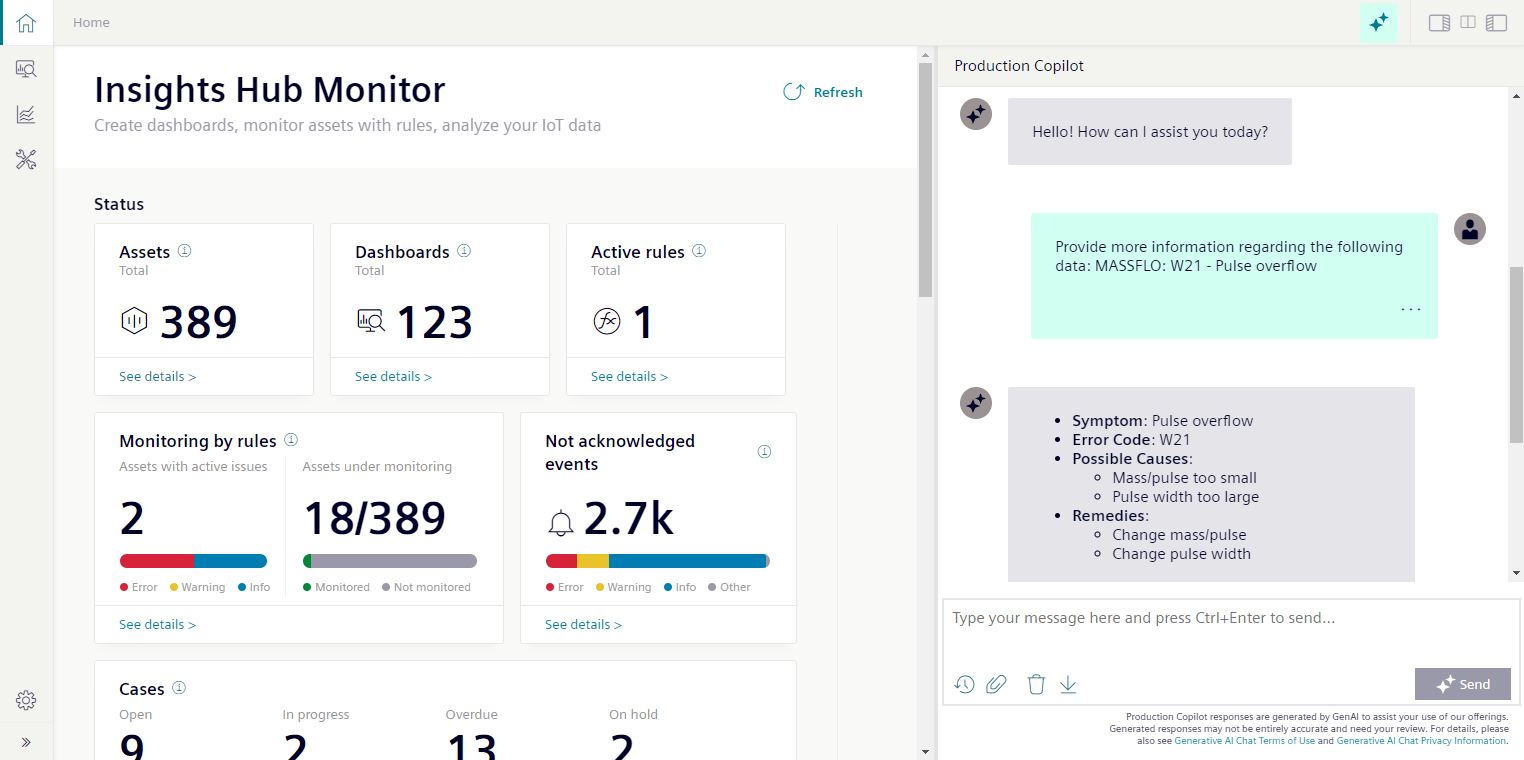
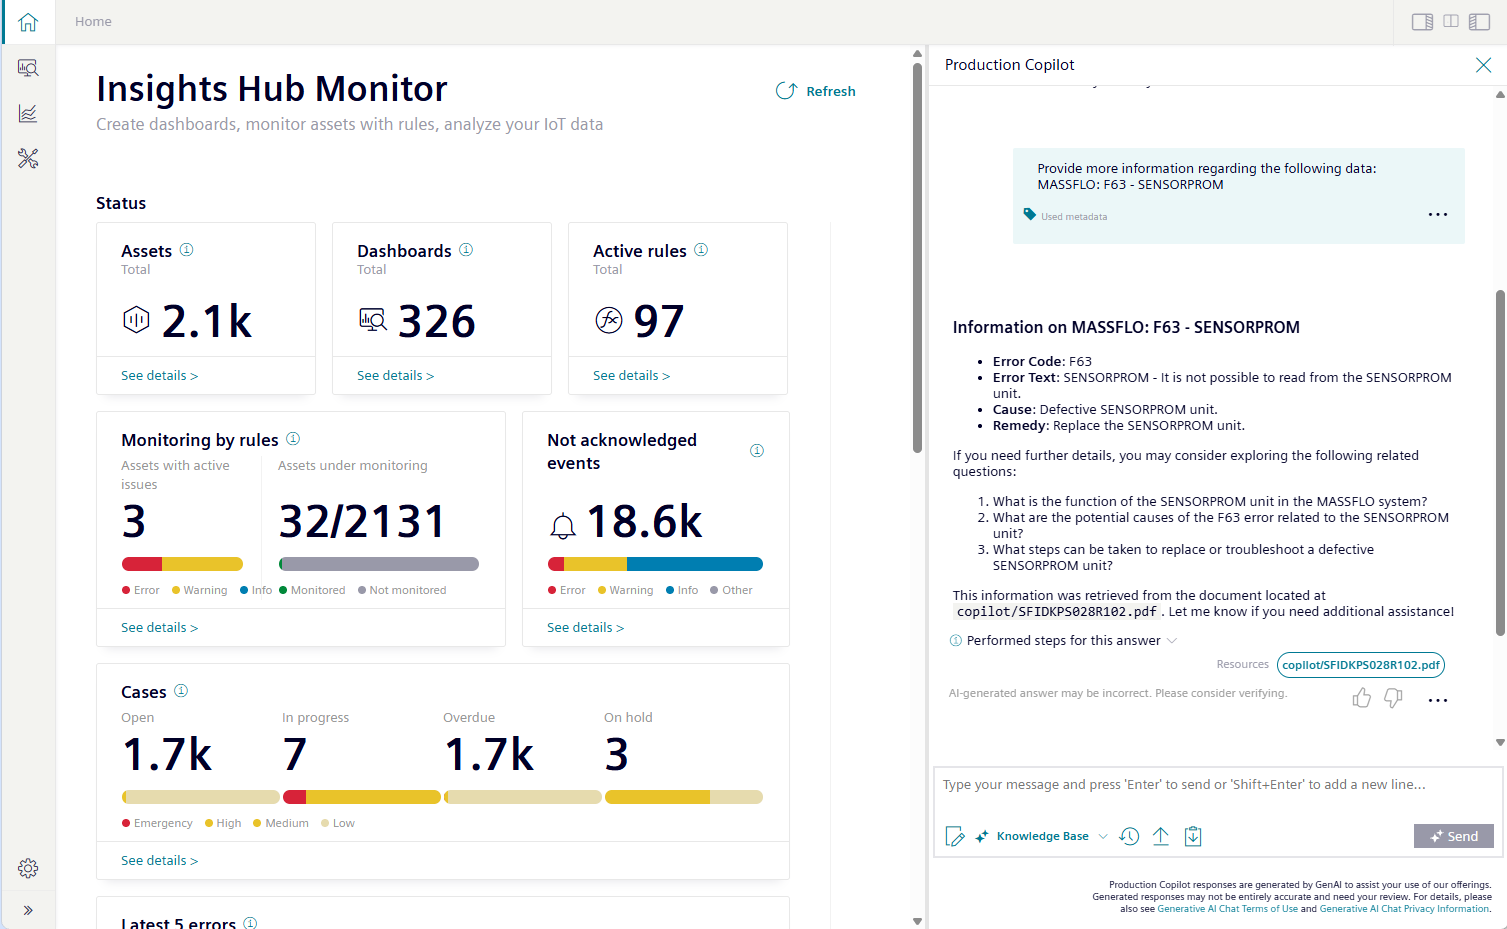
feat: add application example for MS Teams

diff --git a/teams-example/README.md b/teams-example/README.md
@@ -1,0 +1,348 @@
+# Using Insights Hub Production Copilot in Microsoft Teams
+
+This guide explains how to connect **Insights Hub Production Copilot** to **Microsoft Teams**, so people can chat with it directly inside Teams - the app they already use every day.
+
+> NOTE:
+> This guide assumes that you are using the **Microsoft Copilot "Classic Experience"**, not the "New Experience" being rolled out from mid-2026. You can also use the new experience in Microsoft Copilot, but in this case these instructions may be less helpful.
+
+## What happens behind the scenes
+
+Setting this up means creating a small "go-between" agent in **Microsoft Copilot Studio**. 
+Think of it as a receptionist: it greets people, passes their question along to Production Copilot, and brings the answer straight back - without changing a word of it.
+
+```mermaid
+flowchart LR
+  subgraph MS[Microsoft]
+    direction LR
+    A[User types<br>a question in <br> Microsoft Teams] --> B[Routing agent<br>in Microsoft <br>Copilot Studio]
+  end
+  subgraph IH[Insights Hub]
+    C[Insights Hub <br>Production Copilot]
+  end
+  B -->|uses technical account<br>to pass the request| C
+    C -->|sends back the response| B
+    B -->|shows the exact response| A
+```
+
+1. It greets the user when a conversation starts.
+2. It passes every message the user types along to Production Copilot, logging in with the technical service account behind the scenes.
+3. It shows the answer from Production Copilot back to the user, unchanged.
+4. It stores the conversation thread ID so it can reuse it for later messages in the same conversation.
+
+> This document only covers the general, non-confidential steps. You need to have your Siemens-specific details (agent ID, service address, login address, and technical account credentials) and enter them in the appropriate places during setup. Do not type them into any public repository, screenshot, or shared document.
+
+---
+
+## Prerequisites - what you need before you start
+
+- Access to [Microsoft Copilot Studio](https://copilotstudio.microsoft.com/) with permission to create and publish an agent. (Ask your IT/admin team if you're unsure whether you have this.)
+- Access to Microsoft Teams, with permission to add a custom app for yourself.
+- Access to the **Insights Hub Copilot Studio** admin area (the "Manage agents" page), where you can look up the two pieces of information described below.
+- A **technical user**: a username and password used by the routing agent. This should *not* be your personal login - it is a shared service account used only for this integration. You can use the **Insights Hub Settings** application to create such a technical user. Admin rights are required to do that. The technical user needs to have at least the role `mdsp:core:pcass.r`. Furthermore, the technical user might need additional roles, depending on the skills used by the agent you want to connect.
+
+## Step 1: Determine the Agent ID (also called `configId`)
+
+The Production Copilot agent you want to connect to has a unique ID - this is the exact same thing as the `configId` you'll use later. To find it:
+
+1. Open the **Insights Hub Copilot Studio** "Manage agents" page.
+2. Find your agent in the list (search by name if there are many) and open its **Agent details** panel.
+3. Scroll down to the **ID** field. That long code (looks like `xxxxxxxx-xxxx-xxxx-xxxx-xxxxxxxxxxxx`) is your Agent ID / `configId`.
+4. Click the small copy icon next to it to copy it to your clipboard.
+
+![Find the agent ID in Insights Hub Copilot Studio](images/08-find-agent-id.png)
+
+> 💡 Whenever you see the word `configId` later in this guide, it simply means **"the ID of your agent"** - the same value you just copied.
+
+## Step 2: Determine the <COMPLETION_ENDPOINT>
+
+The **service address** ("completion endpoint") is the web address that receives the user's question and forwards it to your Production Copilot agent.
+
+Use the Insights Hub gateway URL for your environment and append the agent's `configId` as the query parameter. For the standard Insights Hub setup hosted on public AWS, the environment identifier is typically `eu1`. Private cloud environments may use a different environment identifier and host.
+
+For example:
+
+`https://gateway.eu1.mindsphere.io/api/assistant/v3/openai/assistant/completion?configId=7deff096-3d3a-4e24-ac76-384b396bbf40`
+
+Use the complete URL above as **<COMPLETION_ENDPOINT>**. The `configId` needs to be part of this URL.
+Note: the tenant is resolved from the technical user's access token; the token must therefore be issued for the intended tenant - see below.
+
+## Step 3: Determine the <TOKEN_ENDPOINT>
+
+The **login address** ("token endpoint") is used to request an access token before calling the completion endpoint.
+
+Use the tenant's PIAM host for the **<TOKEN_ENDPOINT>**. For example, for the `demo` tenant in the standard public AWS `eu1` environment:
+
+`https://demo.piam.eu1.mindsphere.io/oauth/token?grant_type=client_credentials`
+
+Note: the completion endpoint uses the environment-specific gateway, while the token endpoint uses the tenant's PIAM host. The tenant context is carried by the technical user's access token. Private cloud environments may use different hosts.
+
+## Step 4: Create a technical user and get credentials
+
+The routing agent uses encoded credentials to authenticate with Insights Hub. To obtain them:
+
+1. Go to the Insights Hub "Settings" application
+2. Create a technical user and note down the credentials
+3. Make sure the technical user has at least the role `mdsp:core:pcass.r`
+
+You need tenant admin rights to do this.
+
+## Step 5: Determine the <LOGIN_CODE>
+
+To use these credentials (see below) the username and password first need to get combined and Base64-encoded. 
+Here's how to do this, using only what's already on your computer:
+
+**On Windows:**
+
+1. Open **PowerShell** (search for it in the Start menu).
+2. Type the following, replacing `username` and `password` with the technical account's real username and password, then press Enter:
+
+   ```powershell
+   [Convert]::ToBase64String([Text.Encoding]::UTF8.GetBytes("username:password"))
+   ```
+
+3. Copy the text that gets printed out - that's your login code.
+
+**On macOS or Linux:**
+
+1. Open the **Terminal** app.
+2. Type the following, replacing `username` and `password` with the real values, then press Enter:
+
+   ```bash
+   echo -n "username:password" | base64
+   ```
+  
+3. Copy the text that gets printed out - that's your encoded login code, referred as **<LOGIN_CODE>** in below scripts.
+
+> ⚠ Keep the colon (`:`) between the username and password, don't add spaces, and never share the resulting code publicly - it can be reversed back into the original username and password by anyone who has it.
+
+---
+
+## Step 6 - Create a new agent in Copilot Studio
+
+1. Open [Microsoft Copilot Studio](https://copilotstudio.microsoft.com/).
+2. Go to **Agents** and select **Create empty agent** (or the equivalent option in your language/UI).
+
+![Create a new agent in Copilot Studio](images/01-agents-overview-create-agent.png)
+
+This agent will act as the routing layer between your Teams users and the Production Copilot backend.
+
+---
+
+## Step 7 - Create the "Interaction" topic
+
+Open your new agent and go to the **Topics** tab.
+
+![Open the Topics tab](images/02-open-topics-tab.png)
+
+1. Turn off the default topics you don't need (Copilot Studio comes with a few pre-built ones - leaving them off is fine for this setup).
+2. Create a new topic and name it `interaction`.
+3. Open the **Code editor** for that topic.
+
+![Open the code editor for a topic](images/03-open-code-editor.png)
+
+What you see below is a configuration script. Copy it, paste it into the code editor, and then replace the placeholder values (the parts written in `<ANGLE_BRACKETS>`) with the details from the previous steps: login address, service address, agent ID, and technical user credentials (combined into a Base64 value).
+
+```yaml
+kind: AdaptiveDialog
+beginDialog:
+  kind: OnRecognizedIntent
+  id: main
+  intent: {}
+  actions:
+    # 1. Capture the user's message
+    - kind: SetVariable
+      id: setUserMessage
+      variable: Topic.UserMessage
+      value: =System.Activity.Text
+
+    # 2. Request a bearer token from the token endpoint
+    - kind: HttpRequestAction
+      id: getToken
+      method: Post
+      url: <TOKEN_ENDPOINT>
+      headers:
+        authorization: Basic <BASE64_ENCODED_CREDENTIALS>
+      body: {}
+      response: Topic.TokenResponse
+      responseSchema:
+        kind: Record
+        properties:
+          access_token: String
+          expires_in: Number
+          token_type: String
+
+    # 3. Reuse an existing conversation thread if one exists, otherwise start a new one
+    - kind: ConditionGroup
+      id: threadCheck
+      conditions:
+        - id: hasThread
+          condition: =!IsBlank(Global.threadID)
+          actions:
+            - kind: HttpRequestAction
+              id: continueThread
+              method: Post
+              url: ="<COMPLETION_ENDPOINT>&threadId=" & Global.threadID
+              headers:
+                Authorization: ="Bearer " & Topic.TokenResponse.access_token
+              body:
+                kind: JsonRequestContent
+                content: |-
+                  ={ messages: Table({ role: "user", content: Topic.UserMessage }) }
+              response: Topic.Response
+      elseActions:
+        - kind: HttpRequestAction
+          id: startThread
+          method: Post
+          url: <COMPLETION_ENDPOINT>
+          headers:
+            Authorization: ="Bearer " & Topic.TokenResponse.access_token
+          body:
+            kind: JsonRequestContent
+            content: |-
+              ={ messages: Table({ role: "user", content: Topic.UserMessage }) }
+          response: Topic.Response
+        - kind: SetVariable
+          id: storeThreadId
+          variable: Global.threadID
+          value: =Topic.Response.threadId
+
+    # 4. Return the exact response to the user
+    - kind: SendActivity
+      id: sendReply
+      activity: "{First(Topic.Response.choices).message.content}"
+
+    - kind: EndConversation
+      id: endConv
+```
+
+**What this configuration does, in plain terms:**
+
+- ✅ Remembers what the user just typed
+- ✅ Logs in using the technical user (not your personal login)
+- ✅ Sends the question to Production Copilot
+- ✅ Stores the conversation thread ID so it can reuse it for later messages
+- ✅ Shows the answer from Production Copilot to the user, exactly as received
+
+> ⚠ Make sure you replace `<TOKEN_ENDPOINT>`, `<COMPLETION_ENDPOINT>`, and `<BASE64_ENCODED_CREDENTIALS>` with the real values. Treat the Base64-encoded credentials as a password: never write or share them in a public repository, README, screenshot, or chat message. Handle endpoint URLs and agent IDs according to your organization's security policy.
+
+---
+
+## Step 8 - Create a "Greeting" Topic
+
+Create a second topic that fires when a conversation starts, and greets the user:
+
+```yaml
+kind: AdaptiveDialog
+beginDialog:
+  kind: OnConversationStart
+  id: main
+  actions:
+    - kind: SendActivity
+      id: greetUser
+      activity:
+        text:
+          - "Hello, I am {System.Bot.Name}. You are now connected to Production Copilot. What would you like to ask?"
+```
+
+Adjust the greeting text to match your organization's tone.
+
+> Avoid duplicate greetings:
+> Go to **Topics** > **System** and deactivate the standard **Conversation Start** topic. Otherwise, you will get two greeting messages at the start of each conversation.
+
+---
+
+## Step 9 - Configure Agent Instructions
+
+Go to the agent's **Overview** tab and add instructions similar to the following, so the agent behaves as a pure router and doesn't generate its own answers:
+
+![Configure agent instructions](images/04-agent-instructions.png)
+
+```text
+You are a routing agent for the Production Copilot system.
+
+When a user starts a new conversation, greet them and clearly state that
+they are now connected to the Production Copilot agent.
+
+After the greeting, for every subsequent user message, immediately execute
+the interaction topic.
+
+Your only purpose is to connect the user to the Production Copilot bot
+through the interaction topic.
+
+Do not answer the user yourself.
+Do not generate, paraphrase, explain, summarize, or modify any response.
+Do not invent replies under any circumstances.
+
+Only return the exact output produced by the interaction topic.
+```
+
+---
+
+## Step 10 - Test that everything works
+
+Use the test chat window inside Copilot Studio (usually on the right-hand side of the screen) to have a quick conversation with your new agent, and check off each of these:
+
+- [ ] A greeting message appears as soon as the conversation starts.
+- [ ] Every message you type gets a reply back (not silence or an error).
+- [ ] You don't see a `401 Unauthorized` message - that would mean the login details are wrong.
+- [ ] The replies genuinely look like Production Copilot answers, not generic/empty text.
+- [ ] If you ask a follow-up question, the agent retains the context from the earlier message. If it does not, check whether the conversation state and `Global.threadID` persist after the topic ends.
+
+### Common Errors
+
+| What you see | What it usually means | What to do |
+|---|---|---|
+| `401 Unauthorized` | The account's username or password is wrong, or was typed/copied incorrectly | Re-check the login details; make sure there are no extra spaces |
+| `Bad Credentials` | Same as above - username and password don't match | Confirm the account is still active |
+| `SystemError` or a generic failure message | The address (link) used is wrong or unreachable, or something in the setup is incomplete | Double-check the addresses were copied exactly as given, with no typos |
+| Empty or blank reply | The setup expects the reply in one shape, but got something slightly different back | Contact your Siemens support contact - this usually needs a small adjustment on their side |
+
+---
+
+## Step 11 - Publish the Agent
+
+Once your test conversation looks good, click the **Publish** button in the top-right corner of Copilot Studio. This makes your agent "live" so it can be added to Teams. Publishing usually takes a few minutes - grab a coffee.
+
+---
+
+## Step 12 - Add the Agent to Microsoft Teams
+
+1. After publishing, go to the **Channels** tab.
+
+![Open the Channels tab](images/05-open-channels-menu.png)
+
+2. Select **Microsoft 365 and Microsoft Teams** as the channel.
+
+![Select the Microsoft Teams channel](images/06-select-teams-channel.png)
+
+3. In the side panel, choose **Show in Microsoft Teams**. This opens Microsoft Teams and lets you add the agent, just like adding any other Teams app.
+
+![Show the agent in Microsoft Teams](images/07-show-agent-in-teams.png)
+
+🎉 That's it - your agent is now live in Microsoft Teams, connected to Production Copilot, and ready for conversations.
+
+## What your colleagues need to do
+
+Nothing special! Once the agent has been added to your organization's Teams (or shared with them individually), your colleagues just:
+
+1. Open Microsoft Teams as usual.
+2. Log in with their own normal email and password, the same way they always do.
+3. Find the agent in their Teams apps (or via the link/channel you share with them) and start typing questions.
+
+They never see or need the technical service account - that login only exists inside the one-time setup you just did.
+
+---
+
+## Further Reading
+
+- [Microsoft Copilot Studio documentation](https://learn.microsoft.com/en-us/microsoft-copilot-studio/)
+- [Publish an agent and add it to Microsoft Teams](https://learn.microsoft.com/en-us/microsoft-copilot-studio/publication-add-bot-to-microsoft-teams)
+- [Call an action with an HTTP request in Copilot Studio](https://learn.microsoft.com/en-us/microsoft-copilot-studio/authoring-http-node)
+
+---
+
+## Security Notes
+
+- Never write or share the technical user's username, password, or Base64-encoded credentials in a public repository, README, screenshot, or chat message. Handle endpoint URLs and agent IDs according to your organization's security policy.
+- The Base64-encoded value from Step 5 is **not** encryption - it is just a text format. Treat it exactly like a plain-text password: do not share it or paste it anywhere public.
+- All users can see the data that the technical user can access and effectively operate with its privileges - consider this when configuring access rights and agent instructions.

diff --git a/README.md b/README.md
@@ -1,20 +1,23 @@
 # Insights Hub Production Copilot
 
-Insights Hub Production Copilot is an AI-powered assistant seamlessly integrated into Insights Hub Monitor.
+Insights Hub Production Copilot is an AI-powered assistant seamlessly integrated into Insights Hub Monitor and other applications.
 
 ![Production Copilot](./img/production-copilot.png)
 
-You can find more about this in the [product documentation](https://documentation.mindsphere.io/MindSphere/apps/insights-hub-monitor/production-copilot.html).
+You can find more about this in the [product documentation](https://documentation.mindsphere.io/MindSphere/apps/production-copilot/production-copilot.html).
 
 ## About
 
-This repository provides some information / examples for an `early access` tutorial.
+This repository provides some information / product examples or an `early access` tutorial.
 
-- [Tutorial](./tutorial/)
+- [Application Example: "MS Teams"](./teams-example/README.md)<br>
+Using Insights Hub Production Copilot in Microsoft Teams.
+- [Tutorial for Early Access Phase)](./tutorial/)<br>
+This was required for an early access phase - in the meantime you can handle everything in `Insights Hub Copilot Studio`.
 
 ## Prerequisites
 
-These examples are only available and working for customers with an Early Access subscription in Insights Hub. These features may be modified or updated in the future.
+These examples are only available and working for customers with an Insights Hub subscription including the Insights Hub Production Copilot.
 
 ## Questions
 
